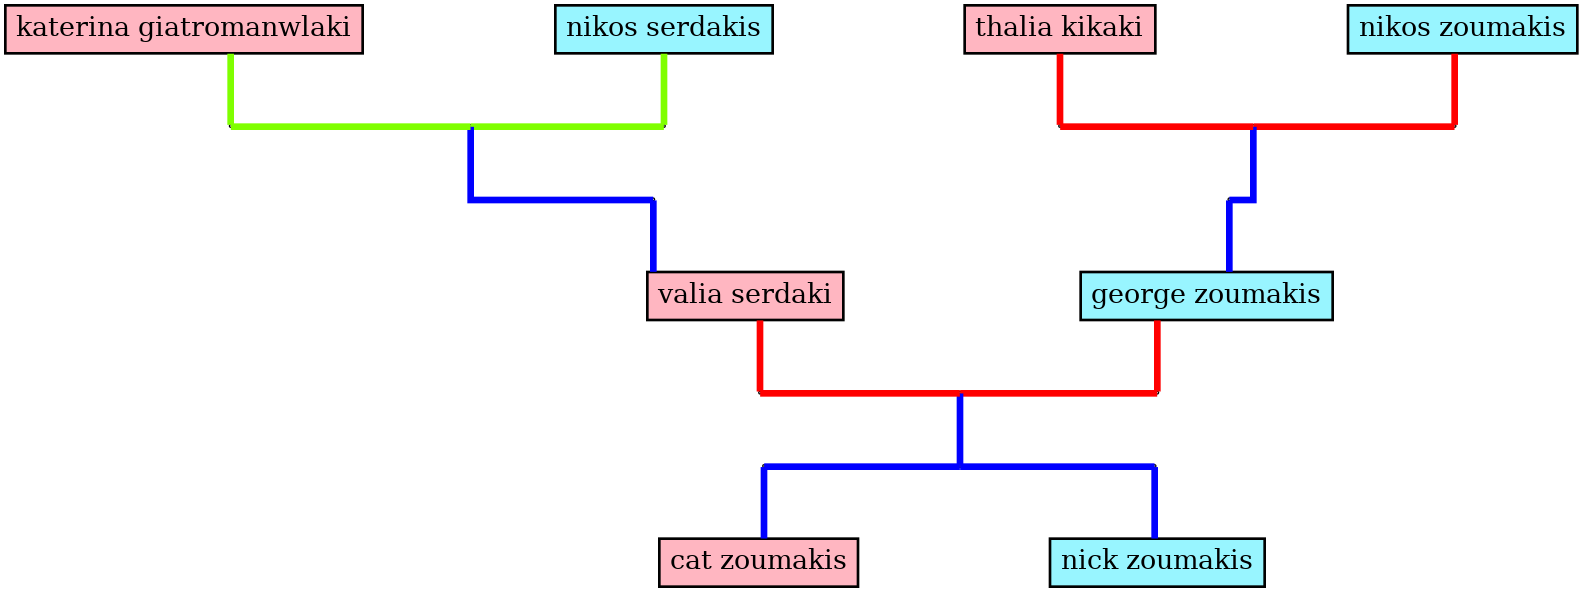
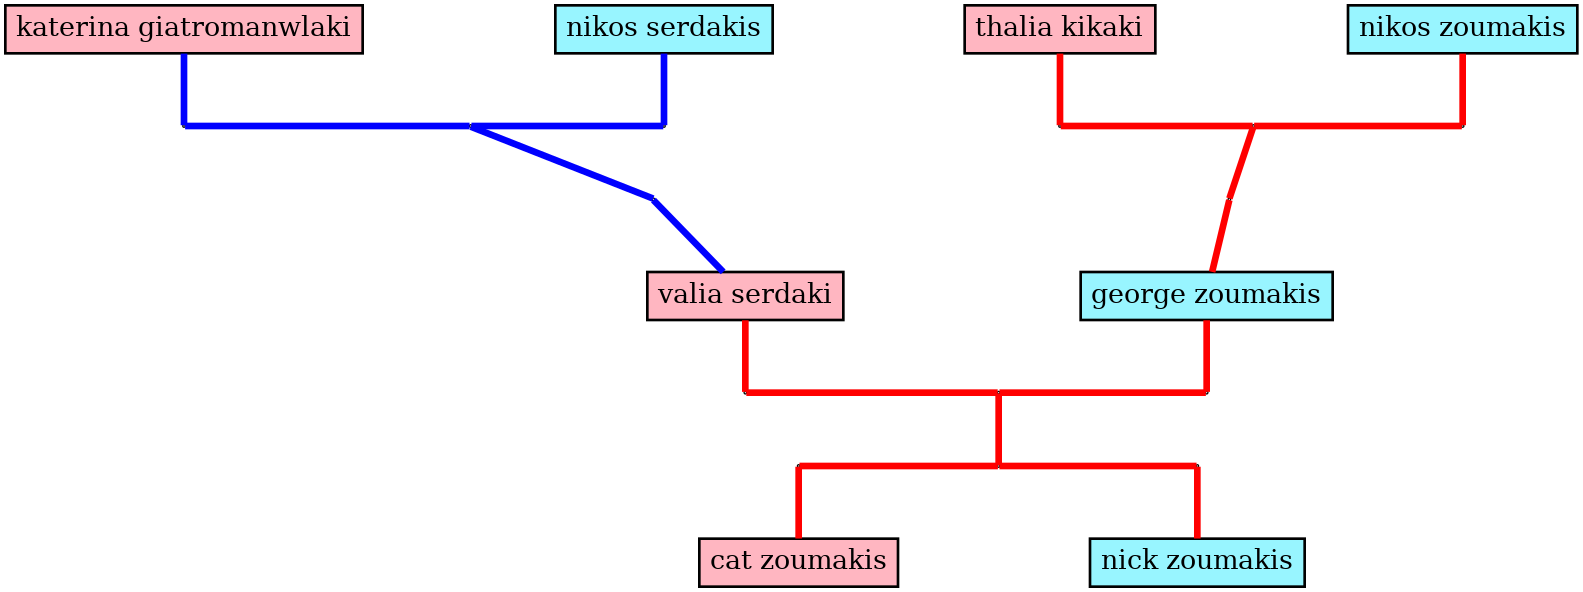
unify edge colors+updated pngs

diff --git a/tree_graph/PygraphvizTree.py b/tree_graph/PygraphvizTree.py
@@ -249,7 +249,7 @@ class Graph:
         current_gen = 0
         node_fill = ["cadetblue1", "lightpink"]
         # 2 χρώματα για κάθε γάμο
-        marriage_colors = ["red", "chartreuse"]
+        marriage_colors = ["red", "blue"]
         for person in people:
             graph.add_node(person.id, label=f"{person.name}", style="filled", fillcolor=node_fill[0] if person.gender=="male" else node_fill[1])
         # για κάθε γενιά
@@ -257,7 +257,7 @@ class Graph:
             # completed links λίστες εξαιρούν αδέρφια και συζύγους για να μη γίνονται πολλαπλές ενώσεις
             completed_spouse_links = []
             completed_sibling_links = []
-            is_red = True
+            color_set = 0
             # για κάθε άτομο 
             for person in people:
                 if person.generation == current_gen:
@@ -280,17 +280,16 @@ class Graph:
                         graph.add_node(link_left, shape="circle", label="", height=0.01)
                         graph.add_node(link_right, shape="circle", label="", height=0.01)
                         # ακμές
-                        graph.add_edges_from([(link_left, point), (point, link_right)], color=marriage_colors[0] if is_red else marriage_colors[1])
+                        graph.add_edges_from([(link_left, point), (point, link_right)], color=marriage_colors[color_set % 2])
                         graph.add_subgraph([link_left, point, link_right], rank="same")
                         # σύνδεση link left & link right με κάθε σύζυγο
-                        graph.add_edges_from([(id, link_left),(spouse_id, link_right)],  color=marriage_colors[0] if is_red else marriage_colors[1], weight="10")         
+                        graph.add_edges_from([(id, link_left),(spouse_id, link_right)],  color=marriage_colors[color_set % 2], weight="10")         
                         # προσθήκη στη λίστα εξαιρέσεων
                         completed_spouse_links.append(person)
                         # αύξηση μετρητή σημείων ένωσης
                         p_nodes += 1
                         # αλλαγή χρώματος για την επόμενη ένωση
-                        if is_red:
-                            is_red = False
+                        color_set +=1
                     # δημιουργία παιδιών
                     if person.parents and person not in completed_sibling_links:
                         # στοιχεία ατόμου που εξετάζεται
@@ -298,13 +297,16 @@ class Graph:
                         name = person.name
                         # εύρεση σημείου ένωσης γονιών του
                         parent_union = "point" + str(person.parents[0].own_union)
+                        # εύρεση χρώματος σύνδεσης γονιών
+                        for edge_tuple in graph.edges(parent_union):
+                            color = graph.get_edge(*edge_tuple).attr['color']
                         # αν 1 παιδί, ένωση αμέσως
                         if not person.siblings:
                             # δημιουργία node σύνδεσης
                             sib = "sib" + str(sib_nodes)
                             graph.add_node(sib, shape="circle", label="", height=0.01)
-                            graph.add_edge(parent_union, sib, color="blue")
-                            graph.add_edge(sib, id, color="blue", weight="10")
+                            graph.add_edge(parent_union, sib, color=color)
+                            graph.add_edge(sib, id, color=color)
                             sib_nodes += 1
                         # αν υπάρχουν αδέρφια
                         else:
@@ -325,61 +327,32 @@ class Graph:
                                 sib_nodes += 1
                             # σύνδεση κόμβων μεταξύ τους
                             for i in range(total - 1):
-                                graph.add_edge(inv_nodes[i], inv_nodes[i + 1], color="blue")
+                                graph.add_edge(inv_nodes[i], inv_nodes[i + 1], color=color)
                             graph.add_subgraph(inv_nodes, rank="same")
                             if even:
                                 # εξαίρεση μεσαίου στοιχείου από την ένωση αν έχουμε ζυγό πλήθος αδελφών (το μέσον της δομής μένει κενό)
                                 bridge = inv_nodes.pop(total // 2)
                             # ένωση των κόμβων με κάθε αδερφό
                             for link, sibling in zip(inv_nodes, all):
-                                graph.add_edge(link, sibling, color="blue", weight="10")
+                                graph.add_edge(link, sibling, color=color, weight="10")
                             # ένωση δομής με γονείς
                             if even:
-                                graph.add_edge(parent_union, bridge, color="blue", weight="10")
+                                graph.add_edge(parent_union, bridge, color=color, weight="10")
                             else:
-                                graph.add_edge(parent_union, inv_nodes[len(inv_nodes) // 2], color="blue", weight="10")
+                                graph.add_edge(parent_union, inv_nodes[len(inv_nodes) // 2], color=color, weight="10")
                             # εξαίρεση αδερφιών από μελλοντικές συνδέσεις
                             for sibling in person.siblings:
                                 completed_sibling_links.append(sibling)
-                        #graph.layout(prog="dot")
-                        #graph.draw(filepath)
-                        
             graph.layout(prog="dot")
-            #graph.draw(filepath)
             # προχωράμε στην επόμενη γενιά
             current_gen += 1
 
-        # edge cross check
-        # edge crossing check
-        for person in people:
-        # get current node and spouse if it exists only if spouse exists, otherwise no edge crossings
-            if person.spouse:
-                current = graph.get_node(person.id)
-                current_spouse = graph.get_node(person.spouse.id)
-                # find link edges for current and spouse
-                for node in (current, current_spouse):
-                    for edge_tuple in graph.edges(node):
-                        for edge in edge_tuple:
-                            if 'link' in edge and node == current:
-                                current_link = edge
-                                # get edge color
-                                color = graph.get_edge(*edge_tuple).attr['color']
-                            elif 'link' in edge and node == current_spouse:
-                                current_spouse_link = edge
-                #calculate x coordinates of nodes and links
-                x_link_curr = float(graph.get_node(current_link).attr['pos'].split(',')[0])
-                x_link_curr_spouse = float(graph.get_node(current_spouse_link).attr['pos'].split(',')[0])
-                x_curr =  float(graph.get_node(current).attr['pos'].split(',')[0])
-                x_curr_spouse = float(graph.get_node(current_spouse).attr['pos'].split(',')[0])
-                # if the statement is true, the edges have crossed and need reversal
-                if  abs(x_curr - x_link_curr) > abs(x_curr - x_link_curr_spouse):
-                    # remove existing
-                    graph.remove_edges_from([(current, current_link), (current_spouse, current_spouse_link)])
-                    # add correct edges
-                    graph.add_edges_from([(current, current_spouse_link), (current_spouse, current_link)], color=color)
-                    
+        # μετά την πρώτη σχεδίαση, κλήση της optimize_edges για διόρθωση κακών διασταυρώσεων
+        self.optimize_edges(graph, people)
+        # τελικό layout και σχεδίαση εικόνας
         graph.layout(prog="dot")
         graph.draw(filepath)
+        
         # με την εικόνα σχεδιασμένη, προχωράμε στην ανάκτηση των συντεταγμένων των κόμβων
         img = Image.open(filepath)
         # TODO: resize σε συγκεκριμένο μέγεθος ?
@@ -390,6 +363,35 @@ class Graph:
                 # αφαιρούμε την y από το ύψος της εικόνας αφού το graphviz μετράει ανάποδα τον άξονα y 
                 self.node_coordinates[node] = (int(1.33 * (float(graph.get_node(node).attr['pos'].split(',')[0]))), height -  int(1.33 * (float(graph.get_node(node).attr['pos'].split(',')[1]))))
        
+
+    """ελέγχει την ύπαρξη κακών διασταυρώσεων και τις επιλύνει"""
+    def optimize_edges(self, graph, people):
+        for person in people:
+        # για κάθε σχεδιασμένο κόμβο συζύγων, λήψη συντεταγμένων κέντρου και σημείων ένωσης με αγκύλη
+            if person.spouse:
+                current = graph.get_node(person.id)
+                current_spouse = graph.get_node(person.spouse.id)
+                # εύρεση link κόμβου
+                for node in (current, current_spouse):
+                    for edge_tuple in graph.edges(node):
+                        for edge in edge_tuple:
+                            if 'link' in edge and node == current:
+                                current_link = edge
+                                # λήψη του χρώματος
+                                color = graph.get_edge(*edge_tuple).attr['color']
+                            elif 'link' in edge and node == current_spouse:
+                                current_spouse_link = edge
+                # συντεταγμένες x κάθε κόμβου
+                x_link_curr = float(graph.get_node(current_link).attr['pos'].split(',')[0])
+                x_link_curr_spouse = float(graph.get_node(current_spouse_link).attr['pos'].split(',')[0])
+                x_curr =  float(graph.get_node(current).attr['pos'].split(',')[0])
+                # αν η ανίσωση ισχύει, υπάρχει διασταύρωση των ακμών και γίνεται αντιστροφή τους
+                if  abs(x_curr - x_link_curr) > abs(x_curr - x_link_curr_spouse):
+                    # διαγραφή υπάρχουσας ένωσης
+                    graph.remove_edges_from([(current, current_link), (current_spouse, current_spouse_link)])
+                    # προσθήκη σωστών ενώσεων
+                    graph.add_edges_from([(current, current_spouse_link), (current_spouse, current_link)], color=color)
+
 
     """Methods για επικοινωνία με το MainApp"""
     """επιστρέφει τις συντεταγμένες κάθε κόμβου όταν κληθεί"""
